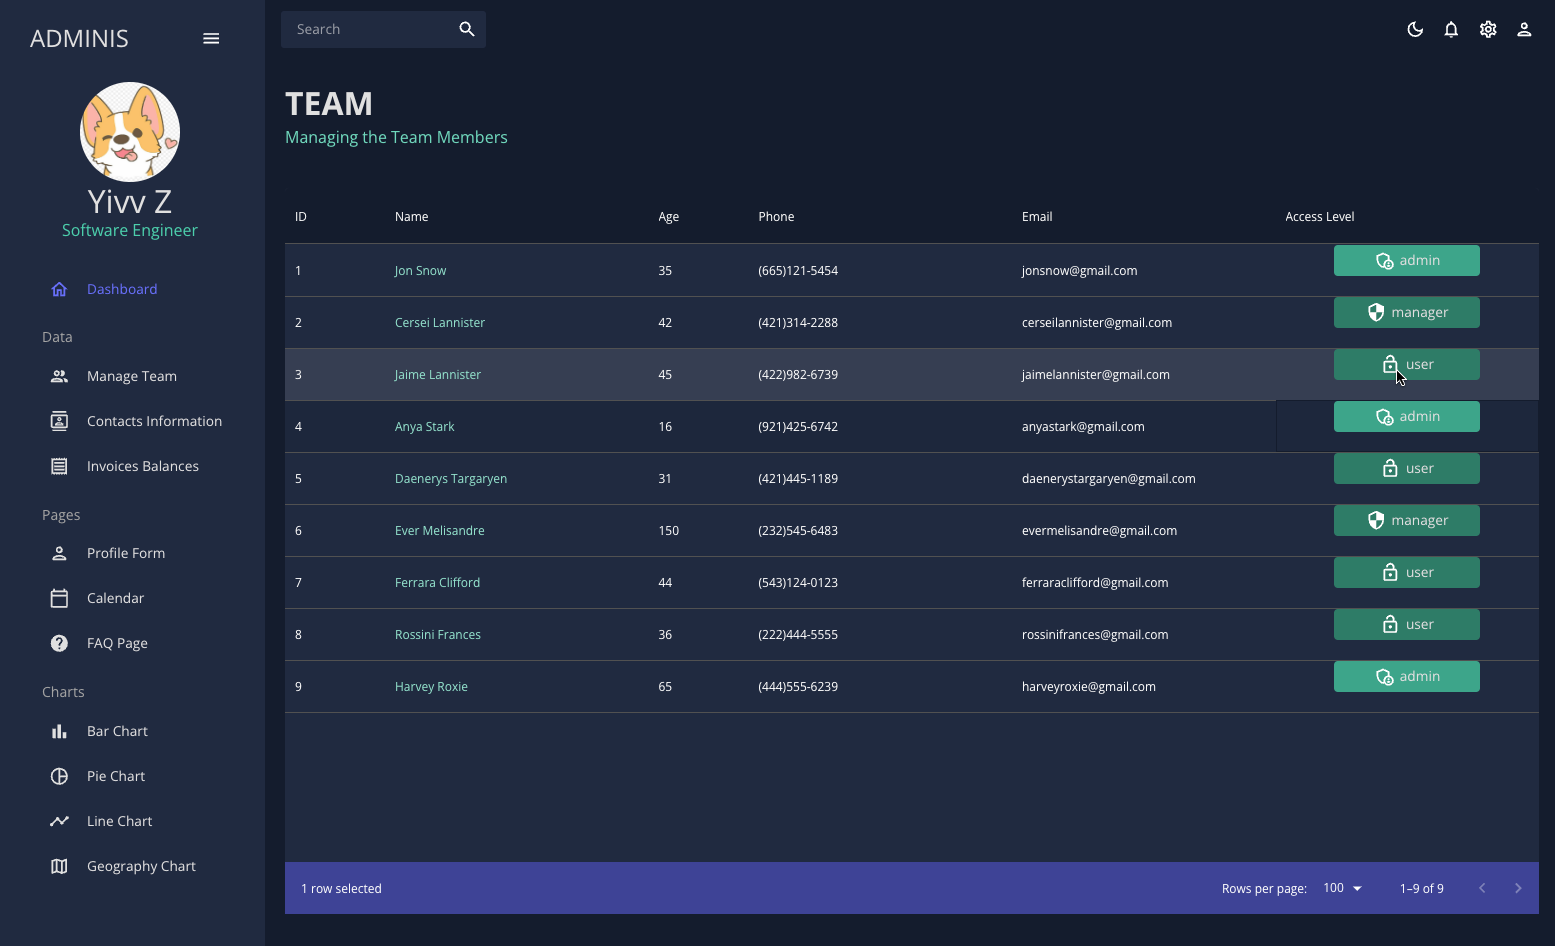
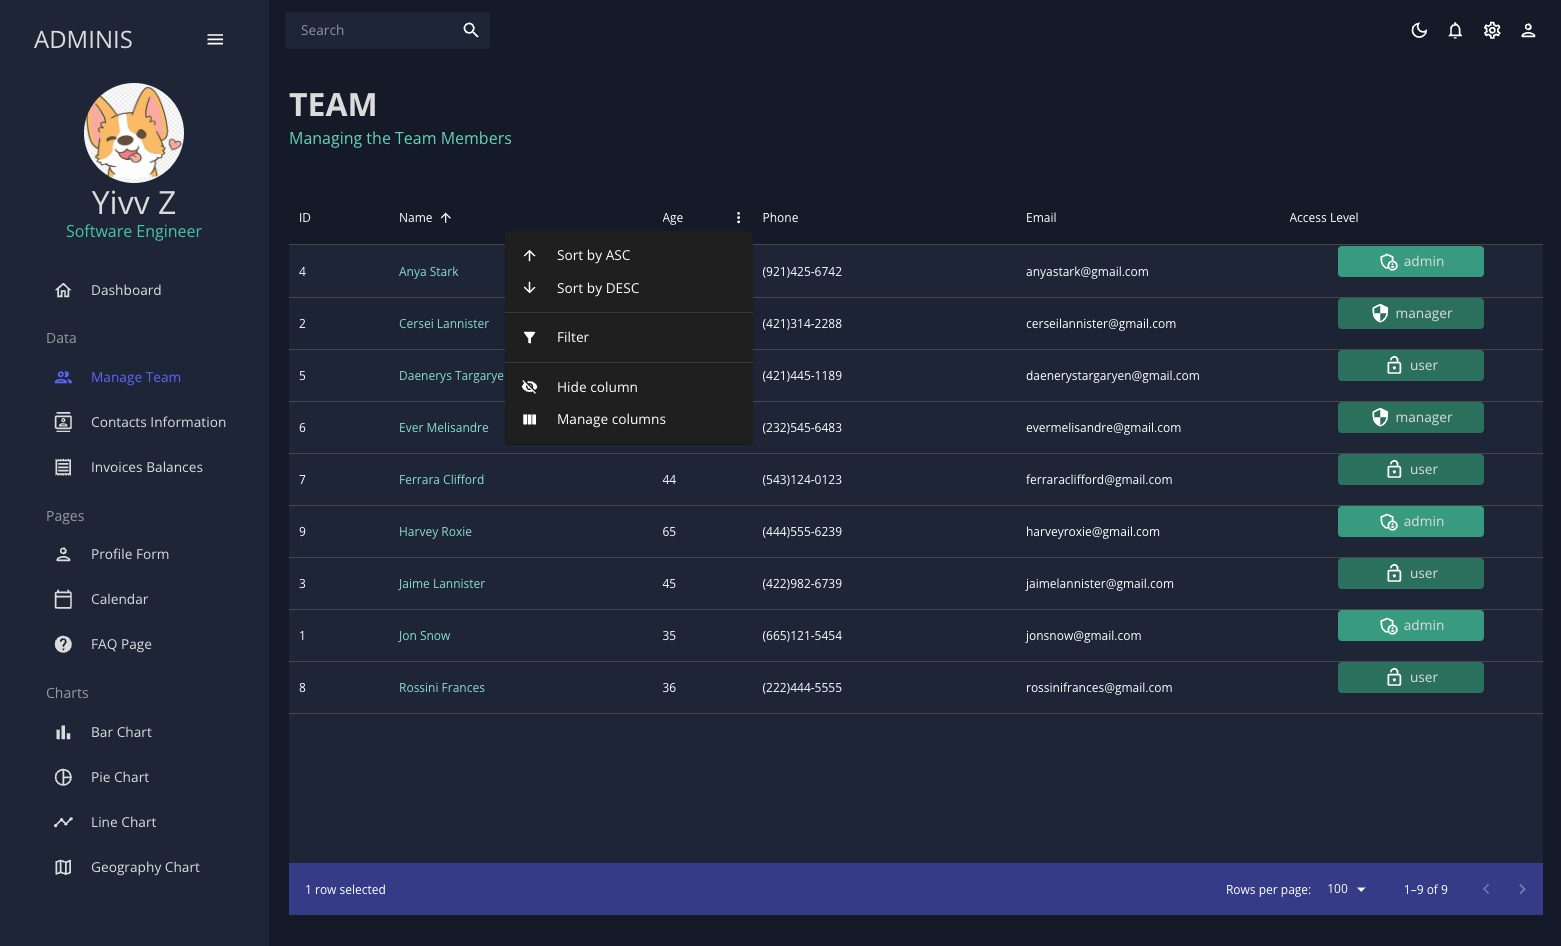
update README.md

diff --git a/README.md b/README.md
@@ -12,10 +12,11 @@ HTML | CSS | JavaScript | React | React Router | React Pro Sidebar | Material UI
 
 - Get an overview of all projects and tasks in one place.
 - **Project Management**: Create, edit, and manage multiple projects.
-- Every page can be switched between Light Mode and Dark Mode.
-- The sidebar can be collapsed.
+- Users can switch the page between Light Mode and Dark Mode.
+- The sidebar can be collapsed as needed.
 
 ![dashboard-dark](./screenshots/dashboard-dark.png)
+
 ![dashboard-light](./screenshots/dashboard-light.png)
 
 ### Team Page
@@ -24,92 +25,51 @@ HTML | CSS | JavaScript | React | React Router | React Pro Sidebar | Material UI
 
 ### Invoice Page
 
+- Users can sort each column on each page by ascending order or by descending order.
+- Users can hide the column(s).
+- Users can filter the contents for each column.
+- Users can manage the columns on each page.
+- Users can select the cost row on Invoice page.
+
 ![team-page](./screenshots/team.png)
 
-### :
+![contact-page](./screenshots/contact.png)
 
-- **Task Management**: Assign tasks to team members, set deadlines, and track progress.
-- **Collaboration**: Comment on tasks and projects, and communicate with team members.
-- **Notifications**: Receive notifications for task updates and deadlines.
+![invoice-page](./screenshots/invoice.png)
 
-### Installation Steps
+### Profile Form:
 
-1. Clone the repository
-   ```sh
-   git clone https://github.com/yivvm/Project-Dashboard.git
-   ```
+- Users can create a new user profile.
 
----
+![profile-form](./screenshots/profile)
 
-# Getting Started with Create React App
+### Calendar Page:
 
-This project was bootstrapped with [Create React App](https://github.com/facebook/create-react-app).
+- **Monthly View, Weekly View, Daily View, List View**: Use the navigation buttons to switch and display tasks and milestones in a monthly, weekly, or daily calendar format, or list format.
+- **Daily View**: Focus on tasks and milestones for a specific day with time setting.
+- **Interactive**: Click on a date or a time slot to **add** a new task or milestone for that day; click on a task to **delete** that task.
+- **Calendar Library**: FullCalendar or similar library for calendar functionalities.
 
-## Available Scripts
+![calendar](./screenshots/calendar.png)
 
-In the project directory, you can run:
+![calendar-add](./screenshots/calendar-add.png)
 
-### `npm start`
+### FAQ Page:
 
-Runs the app in the development mode.\
-Open [http://localhost:3000](http://localhost:3000) to view it in your browser.
+![faq-page](./screenshots/faq.png)
 
-The page will reload when you make changes.\
-You may also see any lint errors in the console.
+### Bar Chart Page:
 
-### `npm test`
+![bar-chart-page](./screenshots/bar.png)
 
-Launches the test runner in the interactive watch mode.\
-See the section about [running tests](https://facebook.github.io/create-react-app/docs/running-tests) for more information.
+### Pie Chart Page:
 
-### `npm run build`
+![pie-chart-page](./screenshots/pie.png)
 
-Builds the app for production to the `build` folder.\
-It correctly bundles React in production mode and optimizes the build for the best performance.
+### Line Chart Page:
 
-The build is minified and the filenames include the hashes.\
-Your app is ready to be deployed!
+![line-chart-page](./screenshots/line.png)
 
-See the section about [deployment](https://facebook.github.io/create-react-app/docs/deployment) for more information.
+### Geography Chart Page:
 
-### `npm run eject`
-
-**Note: this is a one-way operation. Once you `eject`, you can't go back!**
-
-If you aren't satisfied with the build tool and configuration choices, you can `eject` at any time. This command will remove the single build dependency from your project.
-
-Instead, it will copy all the configuration files and the transitive dependencies (webpack, Babel, ESLint, etc) right into your project so you have full control over them. All of the commands except `eject` will still work, but they will point to the copied scripts so you can tweak them. At this point you're on your own.
-
-You don't have to ever use `eject`. The curated feature set is suitable for small and middle deployments, and you shouldn't feel obligated to use this feature. However we understand that this tool wouldn't be useful if you couldn't customize it when you are ready for it.
-
-## Learn More
-
-You can learn more in the [Create React App documentation](https://facebook.github.io/create-react-app/docs/getting-started).
-
-To learn React, check out the [React documentation](https://reactjs.org/).
-
-### Code Splitting
-
-This section has moved here: [https://facebook.github.io/create-react-app/docs/code-splitting](https://facebook.github.io/create-react-app/docs/code-splitting)
-
-### Analyzing the Bundle Size
-
-This section has moved here: [https://facebook.github.io/create-react-app/docs/analyzing-the-bundle-size](https://facebook.github.io/create-react-app/docs/analyzing-the-bundle-size)
-
-### Making a Progressive Web App
-
-This section has moved here: [https://facebook.github.io/create-react-app/docs/making-a-progressive-web-app](https://facebook.github.io/create-react-app/docs/making-a-progressive-web-app)
-
-### Advanced Configuration
-
-This section has moved here: [https://facebook.github.io/create-react-app/docs/advanced-configuration](https://facebook.github.io/create-react-app/docs/advanced-configuration)
-
-### Deployment
-
-This section has moved here: [https://facebook.github.io/create-react-app/docs/deployment](https://facebook.github.io/create-react-app/docs/deployment)
-
-### `npm run build` fails to minify
-
-This section has moved here: [https://facebook.github.io/create-react-app/docs/troubleshooting#npm-run-build-fails-to-minify](https://facebook.github.io/create-react-app/docs/troubleshooting#npm-run-build-fails-to-minify)
-
-# Project-Dashboard
+![geography-chart-page](./screenshots/geo.png)
